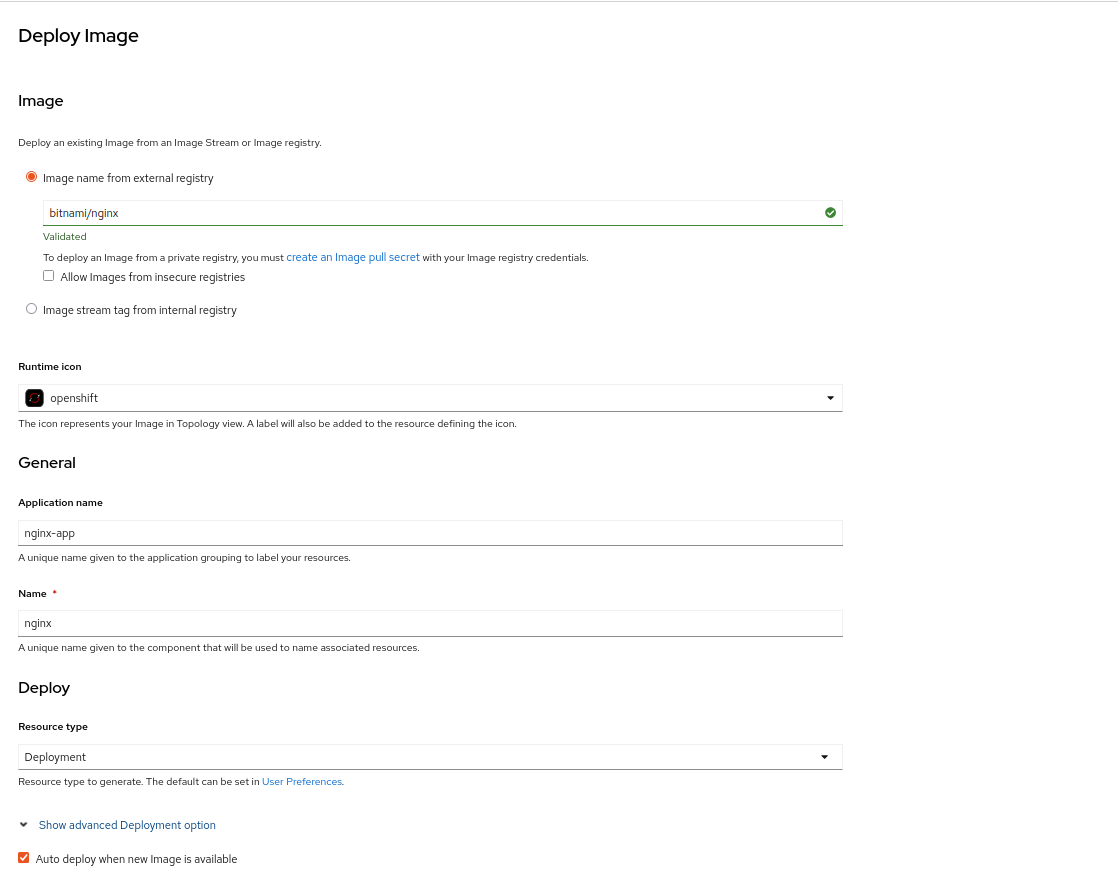
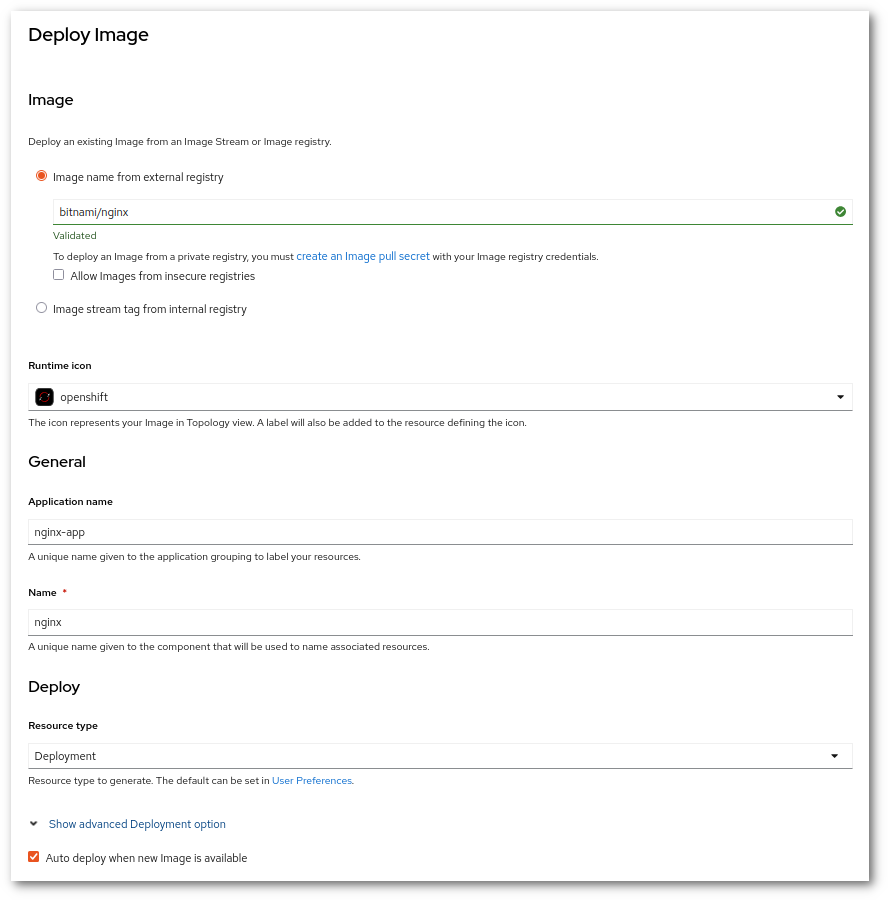
Add example of linked tutorial (at the end a new tutoria lis suggested (#2645)
* Add example of linked tutorial (at the end a new tutoria lis suggested

* change order of content

* Added link to Filip Ginters vLLM example

* Move vscode dev tunnels note from ood page to remote-dev

* Add shadow to image

* Add warning level

* Add shadow

* Add shadow

* fix order and formatting

* Update docs/cloud/rahti/tutorials/deploy_from_git.md

thanks

* Update docs/cloud/rahti/tutorials/oauth2.md

* Update docs/cloud/pouta/vm-flavors-and-billing.md

* Update docs/cloud/pouta/vm-flavors-and-billing.md

* Update docs/cloud/rahti/tutorials/deploy_from_git.md

---------

diff --git a/docs/cloud/pouta/launch-vm-from-web-gui.md b/docs/cloud/pouta/launch-vm-from-web-gui.md
@@ -2,22 +2,12 @@
 
 !!! Warning
 
-    You should familiarize yourself with the security instructions and
+    You should familiarize yourself with the [security guidelines](security.md) and
     terms of Pouta accounting before launching your first virtual
     machine.
 
-This document explains a simple way to launch a virtual machine in the
-Pouta service. Any CSC user with a computing project can request
-access to the service as described in [Applying for Pouta access].
-To use Pouta, you need to have applied Pouta access for your project first.
-Please make sure you are familiar with the [concepts](../index.md) and
-[security issues](security.md) first. You might also want to take a
-look at the [webinar](https://www.youtube.com/watch?v=CIO8KRbgDoI).
 
-[TOC]
-
-
-<!--TOC is to get the table of contents -->
+You might also want to take a look at the [webinar](https://www.youtube.com/watch?v=CIO8KRbgDoI).
 
 The web interfaces of the Pouta clouds are available at following addresses:
 
@@ -26,39 +16,34 @@ The web interfaces of the Pouta clouds are available at following addresses:
 | [https://pouta.csc.fi](https://pouta.csc.fi)       | cPouta web interface | Accessible on the internet |
 | [https://epouta.csc.fi](https://epouta.csc.fi)     | ePouta web interface      |  Accessible only from IPs provided for accessing the management interfaces of ePouta |
 
-This _OpenStack Horizon_ based interface allows you do basic cloud computing management operations such as launch a new virtual machine and manage security settings. To use this service, you need a CSC account and a cPouta/ePouta project at CSC.
+This _OpenStack Horizon_ based interface allows you do basic cloud computing management operations such as launch a new virtual machine and manage security settings.
 
-You can log in to cPouta using several accounts. In addition to your CSC account (CSC username and password), you can also use Haka, VIRTU, and Life Science AAI accounts. The Haka, VIRTU and Life Science AAI accounts will work only if they are linked to your CSC account. Accounts can be linked at [MyCSC](https://my.csc.fi/).
+To use this service, you need a CSC account and a cPouta/ePouta project at CSC. Accounts can be linked at [MyCSC](https://my.csc.fi/).
 
 You can log in to ePouta only using your CSC account.
 
-## Preparatory steps
+## Prerequisites
 
-Before creating a Virtual Machine you must do these 3 steps:
+Before creating a Virtual Machine you need these two prerequisites:
 
-1. Select the correct **CSC project**.
+1. A **CSC account**. Accounts can be created following [How to create new CSC user account](../../accounts/how-to-create-new-user-account.md).
 
-1. Create and setup a **SSH key pair**.
+1. A **CSC project** with the **cPouta** or the **ePouta** service enabled. You can [Create a new project](../../accounts/how-to-create-new-project.md), or ask to be added to an existing one. The project needs to have the suitable service enabled. You can follow [Applying for cPouta access](../../accounts/how-to-add-service-access-for-project.md). **But** If you need to store or process **sensitive data**, you must use ePouta instead and [Apply for ePouta access](ePouta-access.md).
 
-1. Setting a **security group** to control the firewall.
-
-Before starting your first virtual machine in cPouta/ePouta, you must first set up a SSH key pair and modify the security settings so that you will be able to connect to your virtual machine.
-
-### Selecting the CSC project
+## Selecting the CSC project
 
 ![Pouta project selection](../../img/pouta_project_selection.png){ align=left }
 
 You may have more than one CSC project with access to Pouta. You can check this from [my.csc.fi](https://my.csc.fi){:target="_blank"}, where you will be able to see all the projects you have access and which ones have cPouta (or ePouta) activated as a service.
 
-Back in Pouta's interface, make sure that you select the correct project. There are two condiderations here:
+Back in [Pouta's web interface](https://pouta.csc.fi), make sure that you select the correct project. There are two considerations here:
 
-* A project is a sandbox which contains resources like Virtual Machines and networks, and anyone with access to that project will be able to see and administer all these resources. They may not be able to access a Virtual Machine, as this is determinated by the SSH keys configured in the machine, but they will be able to **delete**, **reboot**, ... etc.
+* A project is a sandbox which contains resources like Virtual Machines and networks, and **anyone with access** to that project will be able to **see**, **modify** and **delete** all these resources. They may not be able to access a Virtual Machine, as this is determined by the SSH keys configured in the machine.
 * Projects are used to determinate billing. Make sure that the costs will go to the correct billing project.
 
+## Setting up SSH keys
 
-### Setting up SSH keys
-
-To open a connection to your virtual machines in cPouta/ePouta, you first need to prove your identity to the Virtual and for that need SSH keys. This is the default (and more secure) way to access Virtual Machines. You only need to set up your SSH keys once per project.
+To open a connection to your virtual machines in cPouta/ePouta, you first need to prove your identity to the Virtual and for that need SSH keys. It is commonly called a SSH key pair because it consist on two files, the private key and the public key. This is the default (and more secure) way to access Virtual Machines. You only need to set up your SSH keys once per project.
 
 !!! info "Import public keys"
     If you are already familiar with SSH keys, you can use your existing SSH keys to access the virtual machines. In the web interface, go to the **Compute > Key Pairs** section, and select **Import Public Key**. You need to name your key, keep in mind you will need to use this name when creating Virtual Machines, so the recomendation is to keep it short and informative of the intended use. Secondly paste your public key, it must be in a single line and be in the form of `key-type hash comment`, for example a RSA key from `person@domain.name`:
@@ -76,8 +61,6 @@ If you have not used SSH keypairs before, you need to create one. The web interf
 1. Give your key a name and click in **Create Key Pair**. You will get a "_keyname.pem_" to save. Save it in your home directory. This will be the last time you will be able to download this **private key**, Pouta does not keep a copy in its servers.
 
     ![Create key](../../img/pouta-create-key.png)
-
-    **Figure** The Create Key Pair dialog
 
 #### Linux and Mac
 
@@ -251,7 +234,7 @@ Once the SSH keys and security groups are set, you can launch a new virtual mach
 
 1. **Image Name**, this decides which Linux distribution to use. You can select the image that fits more your use case. The images provided by Pouta by default are regularly maintained up to date.
 
-1. Under the **Access & Security** tab, you need to configure two options. First you need to choose the name of the *Key Pair* you have created in the [**Preparatory Steps**](#setting-up-ssh-keys). Secondly you need to select under the [**Security Groups**](#firewalls-and-security-groups) the security group previously created.
+1. Under the **Access & Security** tab, you need to configure two options. First you need to choose the name of the *Key Pair* you have created in [**Setting up SSH keys**](#setting-up-ssh-keys). Secondly you need to select under the [**Security Groups**](#firewalls-and-security-groups) the security group previously created.
 
     !!! Warning "Key pairs cannot be added after creation"
         A public key is only added to the VM if it has been specified in this step. After clicking on **Launch**, the VM will be created, and the configured key pairs cannot be changed. If no key pair is configured, the recommended solution is to delete the VM and start from scratch.
@@ -300,6 +283,6 @@ When a virtual machine is launched, it only gets a **private IP** (`192.168.XXX.
 
 !!! warning "IP billing"
 
-    Allocated floating IPs are billed at the rate of 0,2 BU/hr. You can additionally read our [blog post](http://cloud.blog.csc.fi/2017/12/floating-ip-management.html) for management of floating IPs in a cPouta project.
+    Allocated floating IPs are billed at the rate of 0,2 BU/hr. See the [Virtual machine flavors and billing unit rates](./vm-flavors-and-billing.md) for more information.
 
 Now we can go to the [Connecting to your virtual machine](connecting-to-vm.md) section and log in to the new Virtual Machine.

diff --git a/docs/cloud/pouta/vm-flavors-and-billing.md b/docs/cloud/pouta/vm-flavors-and-billing.md
@@ -1,16 +1,25 @@
 # Virtual machine flavors and billing unit rates
 
-This article lists the types (flavors) of virtual machines and their
-cost in billing units.
+Currently, Pouta will bill for the use of 3 resources: storage volumes, floating IPs and virtual machines. The account of use of resources is done in increments of one hour. A good way to estimate usage cost is the [Billing unit calculator](https://research.csc.fi/resources/#buc) utility.
 
-The cPouta and ePouta services consume the same billing units as
-Puhti and Mahti. You can find more information in the [CSC computing environment articles].
+- **Storage volumes**: 3,5 BU / TiB hour. In the [Volumes](https://pouta.csc.fi/dashboard/project/volumes/) page of your project, you can see the existing volumes. The total size of the volume is billed, and it consumes BUs even if they are not attached to virtual machines. This is because the data is still stored on our systems.
+- **Floating IPs**: 0,2 BU / hour. Every floating IP reserved to the project is billed. See the list of reserved [Floating IPs](https://pouta.csc.fi/dashboard/project/floating_ips/) of your project. Any extra routers you create and connect to the external network will be also billed for one floating IP. The default router included in the project does not consume billing units.
+- **Virtual machines**: see below the list of [cPouta](#cpouta-flavors) and [ePouta](#epouta-flavors) flavors (The values for the memory of each flavor (in GiB) are approximated). Virtual machines consume BUs regardless whether you are using them or not. This means that a shut down or suspended virtual machine still consumes BUs, and it is because the resources are still reserved and cannot be used by other users. You can find more information about the different states of virtual machines and their BU consumption in [Virtual machine lifecycle](vm-lifecycle.md).
 
-Users can create virtual machines with larger or
-smaller compute resources based on their needs. The virtual
-machine *flavors* available in cPouta and ePouta are listed below in
-separate tables.
-Please note that the values for the memory of each flavor (in GiB) are approximated.
+## Quotas
+
+Each Pouta project has this initial default quota:
+
+| Resource | Default |
+|--------------:|:--------|
+| Instances | 8 |
+| Cores | 8 |
+| Memory | 32 GB |
+| Floating IPs | 2 |
+| Storage | 1 TB |
+
+
+Additional quota can be requested by sending an email to [csc service desk](../../support/contact.md) and explaining your use case. Every request is evaluated based on user needs versus available resources. We always aim to have enough free resources for every quota granted, but please note that there is no warranty. In some cases specific hardware, linked to specific virtual machine flavors may be full, so you would not be able to provision them even if you have the quota to do so.
 
 ## cPouta flavors
 

diff --git a/docs/cloud/rahti/tutorials/index.md b/docs/cloud/rahti/tutorials/index.md
@@ -1,23 +1,33 @@
 # Tutorials
 
-* [4cat, deploying and adapting an application](4cat.md)
-* [Accessing databases on Rahti from CSC supercomputers](connect-database-hpc.md)
-* [Advanced NetworkPolicies](advanced-NetworkPolicies-networking.md)
-* [Allow pulls of images from one Rahti project to another](allow-pull-from-other-projects.md)
-* [Annotations](annotations.md)
-* [CI/CD on Rahti](ci_cd_introduction.md)
-* [Custom domain names and secure transport](custom-domain.md)
-* [Deploying a static web server using the command line](deploy_static_webserver_cli.md)
-* [Deploying a static web server using the web interface](deploy_static_webserver_webconsole.md)
-* [Kustomize](kustomize.md)
-* [Learn cloud computing by developing and deploying a web application](web-app-dev-cloud.md)
-* [Multi stage builds](multi-stage-builds.md)
-* [OAuth2 Proxy](oauth2.md)
-* [Pod (anti) affinity](pod-affinity.md)
-* [Reverse proxy authentication using a sidecar container](sidecar_proxy_authentication.md)
-* [Sending e-mail from Rahti](email.md)
-* [Setup a HTTP redirection in Rahti](http-redirector.md)
-* [Short introduction to YAML](yaml_introduction.md)
-* [Webhooks](webhooks.md)
+## Basic level
+
+* 🟢 [Deploying a static web server using the web interface](deploy_static_webserver_webconsole.md)
+* 🟢 [Deploying a website from Git](deploy_from_git.md)
+* 🟢 [Setup a HTTP redirection in Rahti](http-redirector.md)
+* 🟢 [Short introduction to YAML](yaml_introduction.md)
+* 🟢 [Webhooks](webhooks.md)
+* 🟢 [Allow pulls of images from one Rahti project to another](allow-pull-from-other-projects.md)
+* 🟢 [Annotations](annotations.md)
+
+## Middle level
+
+* 🟠 [Custom domain names and secure transport](custom-domain.md)
+* 🟠 [Deploying a static web server using the command line](deploy_static_webserver_cli.md)
+* 🟠 [Multi stage builds](multi-stage-builds.md)
+* 🟠 [OAuth2 Proxy](oauth2.md)
+* 🟠 [Pod (anti) affinity](pod-affinity.md)
+* 🟠 [Sending e-mail from Rahti](email.md)
+
+
+## Advanced level
+
+* 🔴 [4cat, deploying and adapting an application](4cat.md)
+* 🔴 [Accessing databases on Rahti from CSC supercomputers](connect-database-hpc.md)
+* 🔴 [Advanced NetworkPolicies](advanced-NetworkPolicies-networking.md)
+* 🔴 [CI/CD on Rahti](ci_cd_introduction.md)
+* 🔴 [Kustomize](kustomize.md)
+* 🔴 [Learn cloud computing by developing and deploying a web application](web-app-dev-cloud.md)
+* 🔴 [Reverse proxy authentication using a sidecar container](sidecar_proxy_authentication.md)
 
 We also have an [FAQ](../../../support/faq/index.md#rahti) for Rahti. Take a look at it.

diff --git a/docs/cloud/pouta/index.md b/docs/cloud/pouta/index.md
@@ -33,7 +33,7 @@ Due to the nature of ePouta, it is not available as a self-service. Questions re
 
 cPouta is self-service and you can find more information on how to get access here: [Applying for cPouta access](../../accounts/how-to-add-service-access-for-project.md).
 
- ePouta access is **not** self-service. The process is described in [Applying for ePouta access](ePouta-access.md).
+ePouta access is **not** self-service. The process is described in [Applying for ePouta access](ePouta-access.md).
 
 The web interfaces of the Pouta clouds are available at following addresses:
 
@@ -46,7 +46,7 @@ Login is available for [supported account types](../../accounts/how-to-create-ne
 
 ![Pouta web login page](../img/pouta_overview_web_login.png)
 
-Once you have successfully logged in, you can continue with the [Getting Started Guide](getting-started.md). Pay also attention to the  [Security guidelines for Pouta](security.md) and the [Pouta accounting principles and quotas](accounting.md).
+Once you have successfully logged in, you can continue with the [Getting Started Guide](getting-started.md). Pay also attention to the  [Security guidelines for Pouta](security.md) and the [Pouta accounting principles and quotas](vm-flavors-and-billing.md).
 
 If you are already familiar with the basics of OpenStack, please go directly to the [Configuration](configuration.md) and [Advanced](advanced.md) sections of the Pouta documentation.
 

diff --git a/docs/cloud/rahti/tutorials/deploy_from_git.md b/docs/cloud/rahti/tutorials/deploy_from_git.md
@@ -1,0 +1,27 @@
+
+!!! success "Basic level"
+    This is a simple tutorial to show how to deploy a web server using the Rahti [web interface](../usage/getting_started.md) using a git repository as a source
+
+# Deploy from Git
+
+How to set up a static web server in Rahti from a Git repository.
+
+1. Create a project. [Instructions](../usage/projects_and_quota.md)
+
+1. In the Openshift web console, switch to the Developer perspective. Select _Add_ from the navigation panel. To create an application, under Developer Catalog list Select _Import from Git_. 
+
+    ![click_git](../../../img/click_git.png)
+
+1. Input the URL of the Git repository. OpenShift will use that URL to clone the repository.  
+
+    ![import_from_git](../../../img/import_from_git_1.png)
+
+    The `Advanced Git Options` allows you to change the "reference" (Branch, tag or commit) or the context dir. And also allows to add a secret to get access to the repository (username and password, or SSH keys).
+
+1. After inputting the URL. OpenShift will validate and analyze the repository. 
+
+    ![import_from_git](../../../img/import_from_git_2.png)
+
+1. If the analysis was successful, the last step is to click on `Create`. After few minutes, the site should be available.
+
+After this tutorial, you can check the [Webhooks](webhooks.md) article. Web hooks will allow you to automatically re-deploy this site for every change in the main master branch.

diff --git a/docs/cloud/rahti/tutorials/http-redirector.md b/docs/cloud/rahti/tutorials/http-redirector.md
@@ -28,8 +28,8 @@
 
 1. Mount the Configmap to the nginx deployment as a volume. Go to deployment and add following code in the YAML file.
 
-   ```
-   spec:
+    ```yaml
+    spec:
         containers:
           volumeMounts:
           - mountPath: /opt/bitnami/nginx/conf/server_blocks
@@ -39,7 +39,7 @@
               defaultMode: 420
               name: nginx-config
             name: nginx-conf
-   ```
+    ```
 
     In this example, nginx-conf is the **name** of configMap, nginx-config is the **key** and the ConfigMap has to be mounted in `/opt/bitnami/nginx/conf/server_blocks/`, other images may store the nginx configuration in different folders.
 

diff --git a/docs/support/faq/how-can-i-change-billing-project.md b/docs/support/faq/how-can-i-change-billing-project.md
@@ -10,7 +10,7 @@ selecting the project first.
 * In **Allas**, the project to use is specified using the
   [`allas-conf` command](../../data/Allas/accessing_allas.md).
 * In **cPouta** or **ePouta**, you
-  [select the project from the dropdown menu of the OpenStack Horizon UI](../../cloud/pouta/launch-vm-from-web-gui.md#preparatory-steps).
+  [select the project from the dropdown menu of the OpenStack Horizon UI](../../cloud/pouta/launch-vm-from-web-gui.md#prerequisites).
 * In **Rahti**,
   [OpenShift projects are mapped to CSC projects using the *Description* field](../../cloud/rahti/usage/projects_and_quota.md)
   of the OpenShift project.

diff --git a/docs/accounts/billing.md b/docs/accounts/billing.md
@@ -16,7 +16,7 @@ at research.csc.fi.
 * [Puhti and Mahti billing](../computing/hpc-billing.md)
 * Allas object storage billing:  1 TiB consumes **1** BU per hour. Only actual
    data stored in Allas is billed.
-* [Pouta billing](../cloud/pouta/accounting.md)
+* [Pouta billing](../cloud/pouta/vm-flavors-and-billing.md)
 * [Rahti billing](../cloud/rahti/billing.md)
 * [SD Connect and SD Desktop billing](../data/sensitive-data/sd-use-case-new-user-project-manager.md#sd-connect-bu-consumption)
 

diff --git a/docs/cloud/rahti/tutorials/oauth2.md b/docs/cloud/rahti/tutorials/oauth2.md
@@ -1,3 +1,6 @@
+!!! warning "Middle level"
+    A knowledge of Kubernetes environment and how webservers work is required. It is also useful to know how authentication works. This tutorial uses OpenShift CLI tool [oc](../usage/cli.md)
+
 # How to deploy OAuth2 Proxy in Rahti
 
 We will explain how to deploy and use [OAuth2 Proxy](https://oauth2-proxy.github.io/oauth2-proxy/) to provide authentication control

diff --git a/docs/cloud/pouta/vm-lifecycle.md b/docs/cloud/pouta/vm-lifecycle.md
@@ -3,8 +3,6 @@
 This article explains the different states that virtual machine instances
 can have and their effect on resource usage.
 
-[TOC]
-
 Similar to other cloud providers, Pouta virtual machines also have a lifecycle. 
 Different states of virtual machines have different
 resource requirements for the underlying hardware and are therefore

diff --git a/docs/cloud/pouta/configuration.md b/docs/cloud/pouta/configuration.md
@@ -2,7 +2,6 @@
 
 - [VM lifecycle & saving BUs](vm-lifecycle.md)
 - [Virtual machine flavors and Billing Unit rates](vm-flavors-and-billing.md)
-- [Accounting principles and quotas](accounting.md)
 - [Images](images.md)
 - [Networking](networking.md)
 - [Storage](storage.md)

diff --git a/docs/cloud/rahti/tutorials/yaml_introduction.md b/docs/cloud/rahti/tutorials/yaml_introduction.md
@@ -1,3 +1,7 @@
+
+!!! success "Basic level"
+    You just need basic computing knowledge. It is useful to know how XML or JSON works.
+
 # Short introduction to YAML
 
 YAML is used to describe key-value maps and arrays. YAML files are recognized
